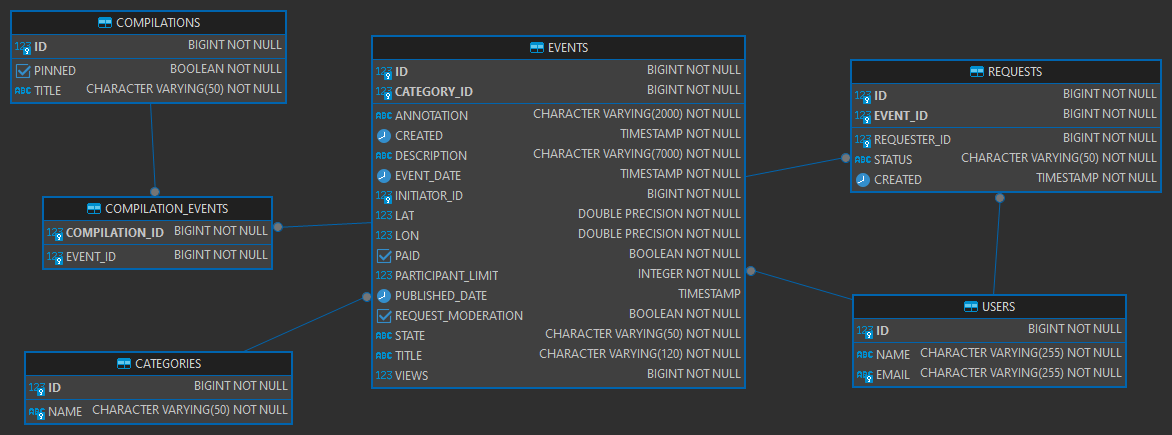
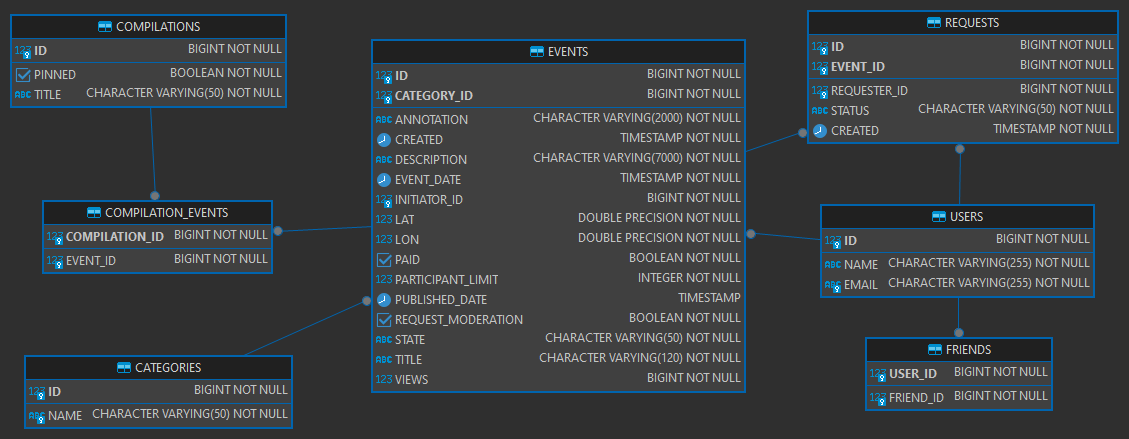
Добавление функционала друзей и просмотра их запросов

Changed region(s): [[0.0, 0.0, 0.992, 0.9563], [0.0, 0.777, 0.279, 0.9862], [0.248, 0.7172, 0.279, 0.777]]

diff --git a/main-service/src/main/java/ru/practicum/main/service/service/UserService.java b/main-service/src/main/java/ru/practicum/main/service/service/UserService.java
@@ -6,15 +6,29 @@ import org.springframework.data.domain.PageRequest;
 import org.springframework.data.domain.Pageable;
 import org.springframework.stereotype.Service;
 import org.springframework.transaction.annotation.Transactional;
+import ru.practicum.main.service.dto.event.EventShortResponse;
 import ru.practicum.main.service.dto.user.NewUserRequest;
 import ru.practicum.main.service.dto.user.UserResponse;
+import ru.practicum.main.service.enums.StateEvent;
+import ru.practicum.main.service.enums.StateRequest;
+import ru.practicum.main.service.exception.model.ConflictException;
 import ru.practicum.main.service.exception.model.NotExistException;
+import ru.practicum.main.service.mapper.CategoryMapper;
+import ru.practicum.main.service.mapper.EventMapper;
 import ru.practicum.main.service.mapper.UserMapper;
+import ru.practicum.main.service.model.Request;
 import ru.practicum.main.service.model.User;
+import ru.practicum.main.service.repository.EventRepository;
+import ru.practicum.main.service.repository.RequestRepository;
 import ru.practicum.main.service.repository.UserRepository;
 
+import java.time.LocalDateTime;
+import java.util.ArrayList;
 import java.util.List;
+import java.util.Set;
 import java.util.stream.Collectors;
+
+import static java.util.stream.Collectors.toList;
 
 @Service
 @RequiredArgsConstructor
@@ -22,6 +36,10 @@ import java.util.stream.Collectors;
 public class UserService {
     private final UserRepository repository;
     private final UserMapper mapper;
+    private final EventRepository eventRepository;
+    private final EventMapper eventMapper;
+    private final RequestRepository requestRepository;
+    private final CategoryMapper categoryMapper;
 
     public List<UserResponse> getUsers(List<Long> ids, int from, int size) {
 
@@ -40,14 +58,100 @@ public class UserService {
                 .collect(Collectors.toList());
     }
 
+    public List<EventShortResponse> getFriendRequests(long userId, long friendId) {
+        checkUniqueIds(userId, friendId);
+        User user = checkUser(userId);
+
+        if (!user.getFriends().contains(friendId)) {
+            throw new NotExistException("User с id = " + userId + "не имеет в друзьях friendId = " + friendId);
+        }
+
+        Set<Long> eventIds = requestRepository.findByRequesterIdAndStatus(friendId, StateRequest.CONFIRMED)
+                .stream()
+                .map(Request::getEventId)
+                .collect(Collectors.toSet());
+
+        return eventRepository
+                .findByIdInAndEventDateAfterAndStateOrderByEventDateAsc(
+                        eventIds,
+                        LocalDateTime.now(),
+                        StateEvent.PUBLISHED)
+                .stream()
+                .map(event -> eventMapper.toEventShortResponse(event,
+                        categoryMapper.toCategoryDto(event.getCategory()),
+                        mapper.toUserShortResponse(event.getInitiator())))
+                .collect(toList());
+    }
+
+    public List<EventShortResponse> getFriendsRequests(long userId) {
+        User user = checkUser(userId);
+
+        if (user.getFriends().isEmpty()) {
+            return new ArrayList<>();
+        }
+
+        Set<Long> eventIds = requestRepository.findByRequesterIdInAndStatus(user.getFriends(), StateRequest.CONFIRMED)
+                .stream()
+                .map(Request::getEventId)
+                .collect(Collectors.toSet());
+
+        return eventRepository
+                .findByIdInAndEventDateAfterAndStateOrderByEventDateAsc(
+                        eventIds,
+                        LocalDateTime.now(),
+                        StateEvent.PUBLISHED)
+                .stream()
+                .map(event -> eventMapper.toEventShortResponse(event,
+                        categoryMapper.toCategoryDto(event.getCategory()),
+                        mapper.toUserShortResponse(event.getInitiator())))
+                .collect(toList());
+    }
+
     @Transactional
     public UserResponse addUser(NewUserRequest newUserRequest) {
         return mapper.toUserResponse(repository.save(mapper.toUser(newUserRequest)));
     }
 
     @Transactional
+    public UserResponse addFriend(long userId, long friendId) {
+        checkUniqueIds(userId, friendId);
+        User user = checkUser(userId);
+
+        if (user.getFriends().contains(friendId)) {
+            throw new ConflictException("User с id = " + userId + "уже является другом с friendId = " + friendId);
+        }
+
+        user.getFriends().add(checkUser(friendId).getId());
+
+        return mapper.toUserResponse(repository.save(user));
+    }
+
+    @Transactional
     public void deleteUser(long userId) {
         repository.findById(userId).orElseThrow(() -> new NotExistException("User с id = " + userId + " не существует"));
         repository.deleteById(userId);
+    }
+
+    @Transactional
+    public void deleteFriend(long userId, long friendId) {
+        checkUniqueIds(userId, friendId);
+        User user = checkUser(userId);
+
+        if (!user.getFriends().remove(friendId)) {
+            throw new NotExistException("User с id = " + userId + "не является другом с friendId = " + friendId);
+        }
+
+        repository.save(user);
+    }
+
+    private User checkUser(long userId) {
+        return repository.findById(userId)
+                .orElseThrow(() -> new NotExistException("User с id = " + userId + " не существует"));
+    }
+
+    private void checkUniqueIds(long userId, long friendId) {
+        if (userId == friendId) {
+            throw new ConflictException("Указаны одинаковые id, userId = " + userId + ", friendId = " + friendId);
+        }
     }
 }

diff --git a/main-service/src/main/java/ru/practicum/main/service/controller/priv/PrivateEventController.java b/main-service/src/main/java/ru/practicum/main/service/controller/priv/PrivateEventController.java
@@ -48,23 +48,23 @@ public class PrivateEventController {
 
     @PostMapping
     @ResponseStatus(HttpStatus.CREATED)
-    public EventFullResponse addEvent(@Positive(message = "Поле userId не положительное или null") @PathVariable long userId,
+    public EventFullResponse addEvent(@Positive(message = "Поле userId не положительное") @PathVariable long userId,
                                       @Valid @RequestBody NewEventRequest newEventRequest) {
         log.info("=== POST Запрос - addEvent. userId: {}, newEventRequest: {} ===", userId, newEventRequest);
         return service.addEventUser(userId, newEventRequest);
     }
 
     @PatchMapping("/{eventId}")
-    public EventFullResponse updateEvent(@Positive(message = "Поле userId не положительное или null") @PathVariable long userId,
-                                         @Positive(message = "Поле eventId не положительное или null") @PathVariable long eventId,
+    public EventFullResponse updateEvent(@Positive(message = "Поле userId не положительное") @PathVariable long userId,
+                                         @Positive(message = "Поле eventId не положительное") @PathVariable long eventId,
                                          @Valid @RequestBody UpdateEventUserRequest updateEventUserRequest) {
         log.info("=== PATCH Запрос - updateEvent. userId: {}, eventId: {} ===", userId, eventId);
         return service.updateEventUser(userId, eventId, updateEventUserRequest);
     }
 
     @PatchMapping("/{eventId}/requests")
-    public EventRequestStatusUpdateResponse updateRequestStatusOnEvent(@Positive(message = "Поле userId не положительное или null") @PathVariable long userId,
-                                                                       @Positive(message = "Поле eventId не положительное или null") @PathVariable long eventId,
+    public EventRequestStatusUpdateResponse updateRequestStatusOnEvent(@Positive(message = "Поле userId не положительное") @PathVariable long userId,
+                                                                       @Positive(message = "Поле eventId не положительное") @PathVariable long eventId,
                                                                        @RequestBody EventRequestStatusUpdateRequest eventRequestStatusUpdateRequest) {
         log.info("=== PATCH Запрос - updateEvent. userId: {}, eventId: {}, eventRequestStatusUpdateRequest: {} ===", userId, eventId, eventRequestStatusUpdateRequest);
         return requestService.updateRequestStatusOnEvent(userId, eventId, eventRequestStatusUpdateRequest);

diff --git a/main-service/src/main/java/ru/practicum/main/service/controller/priv/PrivateFriendController.java b/main-service/src/main/java/ru/practicum/main/service/controller/priv/PrivateFriendController.java
@@ -1,0 +1,52 @@
+package ru.practicum.main.service.controller.priv;
+
+import lombok.RequiredArgsConstructor;
+import lombok.extern.slf4j.Slf4j;
+import org.springframework.http.HttpStatus;
+import org.springframework.validation.annotation.Validated;
+import org.springframework.web.bind.annotation.*;
+import ru.practicum.main.service.dto.event.EventShortResponse;
+import ru.practicum.main.service.dto.user.UserResponse;
+import ru.practicum.main.service.service.UserService;
+
+import javax.validation.constraints.Positive;
+import java.util.List;
+
+@RestController
+@RequestMapping("/users/{userId}/friends")
+@RequiredArgsConstructor
+@Slf4j
+@Validated
+public class PrivateFriendController {
+
+    private final UserService service;
+
+    @GetMapping("/{friendId}")
+    public List<EventShortResponse> getFriendRequests(@Positive(message = "Поле userId не положительное") @PathVariable long userId,
+                                                      @Positive(message = "Поле friendId не положительное") @PathVariable long friendId) {
+        log.info("=== GET Запрос - getFriendRequests. userId: {}, friendId: {} ===", userId, friendId);
+        return service.getFriendRequests(userId, friendId);
+    }
+
+    @GetMapping
+    public List<EventShortResponse> getFriendsRequests(@Positive(message = "Поле userId не положительное") @PathVariable long userId) {
+        log.info("=== GET Запрос - getFriendsRequests. userId: {} ===", userId);
+        return service.getFriendsRequests(userId);
+    }
+
+    @PostMapping("/{friendId}")
+    @ResponseStatus(HttpStatus.CREATED)
+    public UserResponse addFriend(@Positive(message = "Поле userId не положительное") @PathVariable long userId,
+                                  @Positive(message = "Поле friendId не положительное") @PathVariable long friendId) {
+        log.info("=== POST Запрос - addFriend. userId: {}, friendId: {} ===", userId, friendId);
+        return service.addFriend(userId, friendId);
+    }
+
+    @DeleteMapping("/{friendId}")
+    @ResponseStatus(HttpStatus.NO_CONTENT)
+    public void deleteFriend(@Positive(message = "Поле userId не положительное") @PathVariable long userId,
+                             @Positive(message = "Поле friendId не положительное") @PathVariable long friendId) {
+        log.info("=== DELETE Запрос - deleteFriend. userId: {}, friendId: {} ===", userId, friendId);
+        service.deleteFriend(userId, friendId);
+    }
+}

diff --git a/main-service/src/main/java/ru/practicum/main/service/controller/priv/PrivateRequestController.java b/main-service/src/main/java/ru/practicum/main/service/controller/priv/PrivateRequestController.java
@@ -21,22 +21,22 @@ public class PrivateRequestController {
     private final RequestService service;
 
     @GetMapping
-    public List<ParticipationRequestResponse> getRequests(@Positive(message = "Поле userId не положительное или null") @PathVariable long userId) {
+    public List<ParticipationRequestResponse> getRequests(@Positive(message = "Поле userId не положительное") @PathVariable long userId) {
         log.info("=== GET Запрос - getRequests. userId: {} ===", userId);
         return service.getRequests(userId);
     }
 
     @PostMapping
     @ResponseStatus(HttpStatus.CREATED)
-    public ParticipationRequestResponse addRequest(@Positive(message = "Поле userId не положительное или null") @PathVariable long userId,
-                                                   @Positive(message = "Поле eventId не положительное или null") @RequestParam long eventId) {
+    public ParticipationRequestResponse addRequest(@Positive(message = "Поле userId не положительное") @PathVariable long userId,
+                                                   @Positive(message = "Поле eventId не положительное") @RequestParam long eventId) {
         log.info("=== POST Запрос - addRequest. userId: {}, eventId: {} ===", userId, eventId);
         return service.addRequest(userId, eventId);
     }
 
     @PatchMapping("/{requestId}/cancel")
-    public ParticipationRequestResponse cancelRequest(@Positive(message = "Поле userId не положительное или null") @PathVariable long userId,
-                                                      @Positive(message = "Поле requestId не положительное или null") @PathVariable long requestId) {
+    public ParticipationRequestResponse cancelRequest(@Positive(message = "Поле userId не положительное") @PathVariable long userId,
+                                                      @Positive(message = "Поле requestId не положительное") @PathVariable long requestId) {
         log.info("=== GET Запрос - getRequests. userId: {}, requestId: {} ===", userId, requestId);
         return service.cancelRequest(userId, requestId);
     }

diff --git a/main-service/src/main/java/ru/practicum/main/service/controller/admin/AdminCompilationController.java b/main-service/src/main/java/ru/practicum/main/service/controller/admin/AdminCompilationController.java
@@ -30,7 +30,7 @@ public class AdminCompilationController {
     }
 
     @PatchMapping("/{compId}")
-    public CompilationResponse updateCompilation(@Positive(message = "Поле compId не положительное или null") @PathVariable long compId,
+    public CompilationResponse updateCompilation(@Positive(message = "Поле compId не положительное") @PathVariable long compId,
                                                  @Valid @RequestBody UpdateCompilationRequest updateCompilationRequest) {
         log.info("=== PATCH Запрос - updateCompilation. compId: {},  updateCompilationRequest: {} ===", compId, updateCompilationRequest);
         return service.updateCompilation(compId, updateCompilationRequest);
@@ -38,7 +38,7 @@ public class AdminCompilationController {
 
     @DeleteMapping("/{compId}")
     @ResponseStatus(HttpStatus.NO_CONTENT)
-    public void deleteCompilation(@Positive(message = "Поле compId не положительное или null") @PathVariable long compId) {
+    public void deleteCompilation(@Positive(message = "Поле compId не положительное") @PathVariable long compId) {
         log.info("=== DELETE Запрос - deleteCompilation. compId: {} ===", compId);
         service.deleteCompilation(compId);
     }

diff --git a/main-service/src/main/java/ru/practicum/main/service/controller/admin/AdminCategoryController.java b/main-service/src/main/java/ru/practicum/main/service/controller/admin/AdminCategoryController.java
@@ -29,7 +29,7 @@ public class AdminCategoryController {
     }
 
     @PatchMapping("/{catId}")
-    public CategoryResponse updateCategory(@Positive(message = "Поле catId не положительное или null") @PathVariable long catId,
+    public CategoryResponse updateCategory(@Positive(message = "Поле catId не положительное") @PathVariable long catId,
                                            @Valid @RequestBody NewCategoryRequest newCategoryRequest) {
         log.info("=== PATCH Запрос - updateCategory. catId: {}, newCategoryRequest: {} ===", catId, newCategoryRequest);
         return service.updateCategory(catId, newCategoryRequest);
@@ -37,7 +37,7 @@ public class AdminCategoryController {
 
     @DeleteMapping("/{catId}")
     @ResponseStatus(HttpStatus.NO_CONTENT)
-    public void deleteCategory(@Positive(message = "Поле catId не положительное или null") @PathVariable long catId) {
+    public void deleteCategory(@Positive(message = "Поле catId не положительное") @PathVariable long catId) {
         log.info("=== DELETE Запрос - deleteCategory. catId: {} ===", catId);
         service.deleteCategory(catId);
     }

diff --git a/main-service/src/main/java/ru/practicum/main/service/repository/EventRepository.java b/main-service/src/main/java/ru/practicum/main/service/repository/EventRepository.java
@@ -3,10 +3,15 @@ package ru.practicum.main.service.repository;
 import org.springframework.data.domain.Pageable;
 import org.springframework.data.jpa.repository.JpaRepository;
 import org.springframework.data.jpa.repository.JpaSpecificationExecutor;
+import ru.practicum.main.service.enums.StateEvent;
 import ru.practicum.main.service.model.Event;
 
+import java.time.LocalDateTime;
 import java.util.List;
+import java.util.Set;
 
 public interface EventRepository extends JpaRepository<Event, Long>, JpaSpecificationExecutor<Event> {
     List<Event> findByInitiatorId(long userId, Pageable pageable);
+
+    List<Event> findByIdInAndEventDateAfterAndStateOrderByEventDateAsc(Set<Long> eventIds, LocalDateTime eventDate, StateEvent state);
 }

diff --git a/main-service/src/main/java/ru/practicum/main/service/controller/admin/AdminEventController.java b/main-service/src/main/java/ru/practicum/main/service/controller/admin/AdminEventController.java
@@ -38,7 +38,7 @@ public class AdminEventController {
     }
 
     @PatchMapping("/{eventId}")
-    public EventFullResponse updateEvent(@Positive(message = "Поле eventId не положительное или null") @PathVariable long eventId,
+    public EventFullResponse updateEvent(@Positive(message = "Поле eventId не положительное") @PathVariable long eventId,
                                          @Valid @RequestBody UpdateEventAdminRequest updateEventAdminRequest) {
         log.info("=== PATCH Запрос - updateEvent. eventId: {}, updateEventAdminRequest: {} ===", eventId, updateEventAdminRequest);
         return service.updateEventAdmin(eventId, updateEventAdminRequest);

diff --git a/main-service/src/main/java/ru/practicum/main/service/repository/RequestRepository.java b/main-service/src/main/java/ru/practicum/main/service/repository/RequestRepository.java
@@ -5,6 +5,7 @@ import ru.practicum.main.service.enums.StateRequest;
 import ru.practicum.main.service.model.Request;
 
 import java.util.List;
+import java.util.Set;
 
 public interface RequestRepository extends JpaRepository<Request, Long> {
 
@@ -13,4 +14,8 @@ public interface RequestRepository extends JpaRepository<Request, Long> {
     List<Request> findAllByEventId(long eventId);
 
     List<Request> findAllByStatusAndEventId(StateRequest stateRequest, long eventId);
+
+    List<Request> findByRequesterIdAndStatus(long requesterId, StateRequest status);
+
+    List<Request> findByRequesterIdInAndStatus(Set<Long> requesterIds, StateRequest status);
 }

diff --git a/main-service/src/main/java/ru/practicum/main/service/controller/pub/PublicEventController.java b/main-service/src/main/java/ru/practicum/main/service/controller/pub/PublicEventController.java
@@ -42,7 +42,7 @@ public class PublicEventController {
     }
 
     @GetMapping("/{id}")
-    public EventFullResponse getEvent(@Positive(message = "Поле id не положительное или null") @PathVariable(name = "id") long eventId,
+    public EventFullResponse getEvent(@Positive(message = "Поле id не положительное") @PathVariable(name = "id") long eventId,
                                       HttpServletRequest request) {
         log.info("=== GET Запрос - getEvent. eventId: {}, HttpServletRequest {} ===", eventId, request);
         return service.getEventPublic(eventId, request);

diff --git a/main-service/src/main/java/ru/practicum/main/service/controller/pub/PublicCompilationController.java b/main-service/src/main/java/ru/practicum/main/service/controller/pub/PublicCompilationController.java
@@ -28,7 +28,7 @@ public class PublicCompilationController {
     }
 
     @GetMapping("/{compId}")
-    public CompilationResponse getCompilation(@Positive(message = "Поле compId не положительное или null") @PathVariable long compId) {
+    public CompilationResponse getCompilation(@Positive(message = "Поле compId не положительное") @PathVariable long compId) {
         log.info("=== GET Запрос - getCompilation. compId: {} ===", compId);
         return service.getCompilation(compId);
     }

diff --git a/main-service/src/main/java/ru/practicum/main/service/controller/admin/AdminUserController.java b/main-service/src/main/java/ru/practicum/main/service/controller/admin/AdminUserController.java
@@ -40,7 +40,7 @@ public class AdminUserController {
 
     @DeleteMapping("/{userId}")
     @ResponseStatus(HttpStatus.NO_CONTENT)
-    public void deleteUser(@Positive(message = "Поле userId не положительное или null") @PathVariable long userId) {
+    public void deleteUser(@Positive(message = "Поле userId не положительное") @PathVariable long userId) {
         log.info("=== DELETE Запрос - deleteUser. userId: {} ===", userId);
         service.deleteUser(userId);
     }
